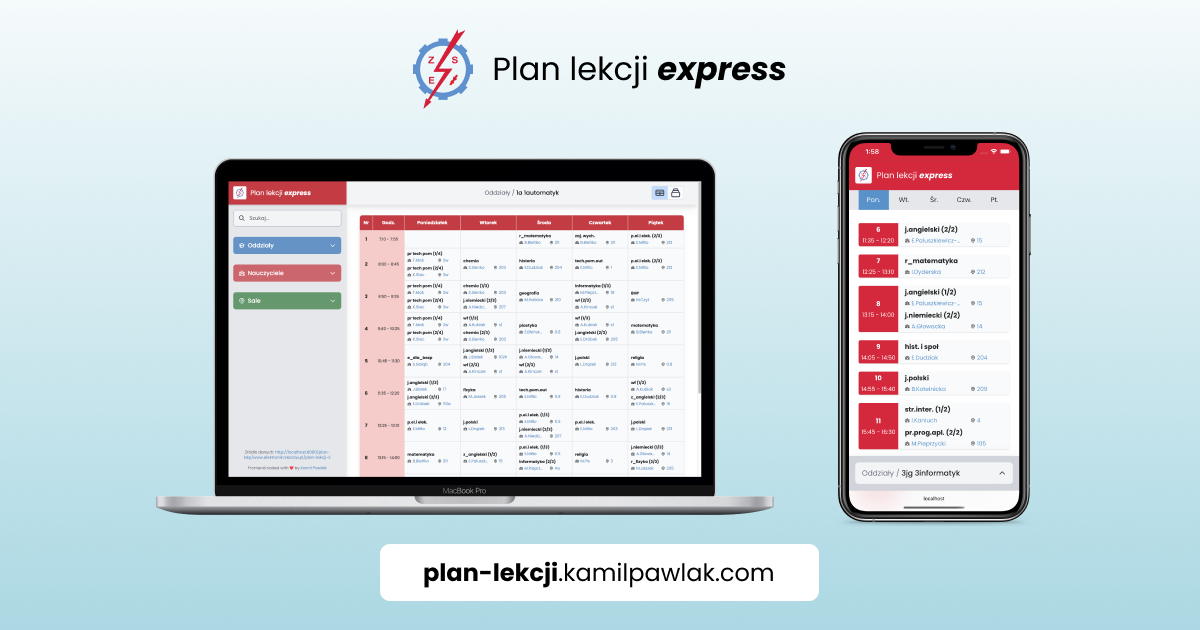
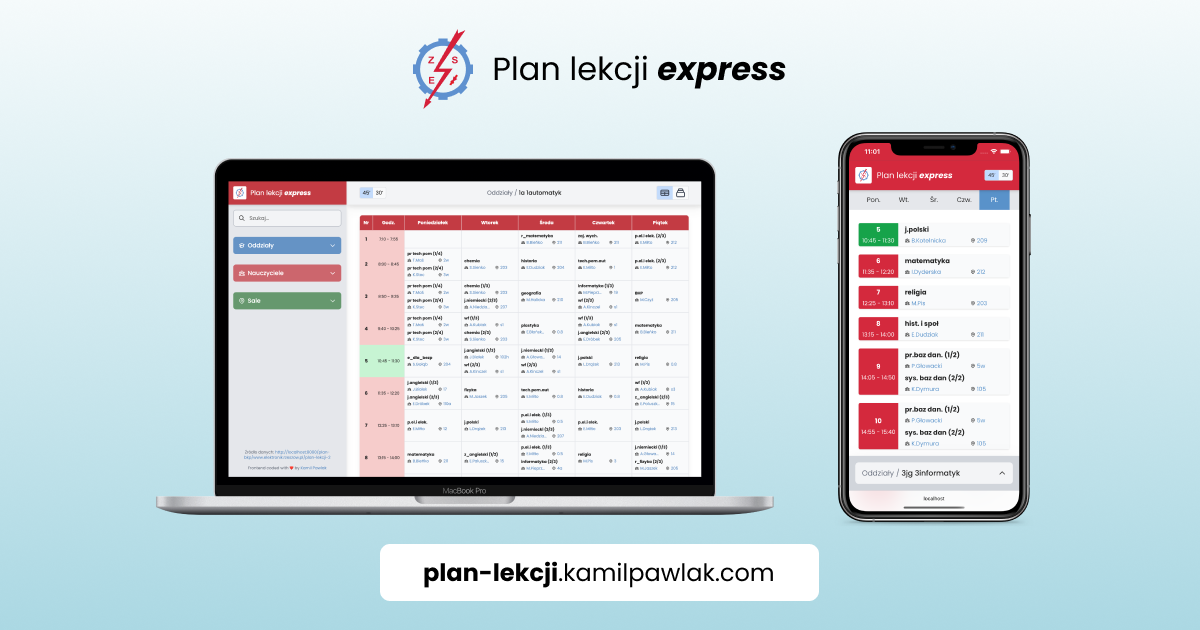
feat: short hours mode, update og image

diff --git a/components/TopBar.tsx b/components/TopBar.tsx
@@ -5,6 +5,7 @@ import * as React from "react";
 import getRouteContext from "../helpers/getRouteContext";
 import { SettingsContext } from "../pages/_app";
 import { DesktopComponent } from "../types/SettingsContext";
+import ShortHoursSwitcher from "./ShortHoursSwitcher";
 
 type TopBarProps = {
   timeTableList: List;
@@ -12,19 +13,22 @@ type TopBarProps = {
 
 const TopBar = ({ timeTableList }: TopBarProps) => {
   const router = useRouter();
-  const { desktopComponent, setDesktopComponent } = React.useContext(SettingsContext);
+  const { desktopComponent, setDesktopComponent } =
+    React.useContext(SettingsContext);
 
   const routeContext = React.useMemo(() => {
     return getRouteContext(router, timeTableList);
   }, [router, timeTableList]);
 
-  const handleButtonClick = (value: DesktopComponent) => {
+  const handleDesktopComponentButtonClick = (value: DesktopComponent) => {
     if (setDesktopComponent) setDesktopComponent(value);
   };
 
   return (
     <div className="bg-gray-100 flex h-[4.5rem] px-10 filter drop-shadow-xl">
-      <div className="w-full" />
+      <div className="w-full flex items-center">
+        <ShortHoursSwitcher />
+      </div>
       <div className=" w-full flex justify-center items-center">
         <h2 className="text-lg truncate">
           {routeContext.name && routeContext.typeName && (
@@ -38,16 +42,20 @@ const TopBar = ({ timeTableList }: TopBarProps) => {
       <div className="w-full flex items-center justify-end">
         <div className="bg-gray-50 flex items-center rounded border border-gray-300">
           <button
-            onClick={() => handleButtonClick("table")}
+            onClick={() => handleDesktopComponentButtonClick("table")}
             aria-label="Tabela"
-            className={`px-2 py-1 rounded-l ${desktopComponent === "table" ? "bg-blue-200" : ""}`}
+            className={`px-2 py-1 rounded-l ${
+              desktopComponent === "table" ? "bg-blue-200" : ""
+            }`}
           >
             <TableIcon className="h-8 text-gray-700" />
           </button>
           <button
-            onClick={() => handleButtonClick("list")}
+            onClick={() => handleDesktopComponentButtonClick("list")}
             aria-label="Lista"
-            className={`px-2 py-1 rounded-r ${desktopComponent === "list" ? "bg-blue-200" : ""}`}
+            className={`px-2 py-1 rounded-r ${
+              desktopComponent === "list" ? "bg-blue-200" : ""
+            }`}
           >
             <CollectionIcon className="h-8 text-gray-700" />
           </button>

diff --git a/pages/_app.tsx b/pages/_app.tsx
@@ -11,10 +11,85 @@ import {
 } from "../types/SettingsContext";
 import { useRouter } from "next/router";
 
+const shortHours = [
+  {
+    number: 1,
+    timeFrom: "7:10",
+    timeTo: "7:40",
+  },
+  {
+    number: 2,
+    timeFrom: "7:45",
+    timeTo: "8:15",
+  },
+  {
+    number: 3,
+    timeFrom: "8:20",
+    timeTo: "8:50",
+  },
+  {
+    number: 4,
+    timeFrom: "8:55",
+    timeTo: "9:25",
+  },
+  {
+    number: 5,
+    timeFrom: "9:45",
+    timeTo: "10:15",
+  },
+  {
+    number: 6,
+    timeFrom: "10:20",
+    timeTo: "10:50",
+  },
+  {
+    number: 7,
+    timeFrom: "10:55",
+    timeTo: "11:25",
+  },
+  {
+    number: 8,
+    timeFrom: "11:30",
+    timeTo: "12:00",
+  },
+  {
+    number: 9,
+    timeFrom: "12:05",
+    timeTo: "12:35",
+  },
+  {
+    number: 10,
+    timeFrom: "12:40",
+    timeTo: "13:10",
+  },
+  {
+    number: 11,
+    timeFrom: "13:15",
+    timeTo: "13:45",
+  },
+  {
+    number: 12,
+    timeFrom: "14:00",
+    timeTo: "14:30",
+  },
+  {
+    number: 13,
+    timeFrom: "14:35",
+    timeTo: "15:05",
+  },
+  {
+    number: 14,
+    timeFrom: "15:10",
+    timeTo: "15:40",
+  },
+];
+
 const defaultContextValue: SettingsContextType = {
   desktopComponent: "table",
   showSpinner: false,
-  bottomBarExpanded: false
+  bottomBarExpanded: false,
+  shortHours,
+  showShortHours: false,
 };
 
 export const SettingsContext =
@@ -24,9 +99,14 @@ function MyApp({ Component, pageProps }: AppProps) {
   const [desktopComponent, setDesktopComponent] = useState<DesktopComponent>(
     defaultContextValue.desktopComponent
   );
-  const [showSpinner, setShowSpinner] = useState(defaultContextValue.showSpinner);
-  const [bottomBarExpanded, setBottomBarExpanded] = useState(defaultContextValue.bottomBarExpanded);
-
+  const [showSpinner, setShowSpinner] = useState(
+    defaultContextValue.showSpinner
+  );
+  const [bottomBarExpanded, setBottomBarExpanded] = useState(
+    defaultContextValue.bottomBarExpanded
+  );
+  const [showShortHours, setShowShortHours]
+ = useState(defaultContextValue.showShortHours)
   const router = useRouter();
 
   useEffect(() => {
@@ -55,7 +135,10 @@ function MyApp({ Component, pageProps }: AppProps) {
         setDesktopComponent,
         showSpinner,
         bottomBarExpanded,
-        setBottomBarExpanded
+        setBottomBarExpanded,
+        shortHours,
+        showShortHours,
+        setShowShortHours
       }}
     >
       <Component {...pageProps} />

diff --git a/components/TimeTableAsTable.tsx b/components/TimeTableAsTable.tsx
@@ -9,8 +9,10 @@ import Link from "next/link";
 import * as React from "react";
 import InlineSVG from "react-inlinesvg";
 import getClassDataByCode from "../helpers/getClassDataByCode";
+import getHourData from "../helpers/getHourData";
 import getRoomDataByNumber from "../helpers/getRoomDataByNumber";
 import getTeacherDataByCode from "../helpers/getTeacherDataByCode";
+import { SettingsContext } from "../pages/_app";
 import { TimeTableData } from "../types/TimeTable";
 
 interface Props {
@@ -21,25 +23,27 @@ interface Props {
 const TimeTableAsTable = ({ timeTable, timeTableList }: Props) => {
   const shortDayNames = ["Pon.", "Wt.", "Śr.", "Czw.", "Pt."];
 
+  const { showShortHours, shortHours } = React.useContext(SettingsContext);
+
   const router = useRouter();
 
   const getClassData = React.useCallback(
     (classCode: string | undefined) => {
-      return getClassDataByCode(timeTableList, classCode)
+      return getClassDataByCode(timeTableList, classCode);
     },
     [timeTableList]
   );
 
   const getTeacherData = React.useCallback(
     (teacherCode: string | undefined) => {
-      return getTeacherDataByCode(timeTableList, teacherCode)
+      return getTeacherDataByCode(timeTableList, teacherCode);
     },
     [timeTableList]
   );
 
   const getRoomData = React.useCallback(
     (roomNumber: string | undefined) => {
-      return getRoomDataByNumber(timeTableList, roomNumber)
+      return getRoomDataByNumber(timeTableList, roomNumber);
     },
     [timeTableList]
   );
@@ -80,6 +84,12 @@ const TimeTableAsTable = ({ timeTable, timeTableList }: Props) => {
     };
   }, [timeTable.days]);
 
+  const hourData = React.useMemo(() => {
+    if (showShortHours)
+      return getHourData(timeTable.hours, shortHours)
+    else return timeTable.hours;
+  }, [shortHours, showShortHours, timeTable.hours]);
+
   return (
     <div className="px-10 pb-16 mt-8">
       <table className="w-full table-fixed border-separate border-0 shadow-lg rounded-lg border-spacing-0 ">
@@ -102,7 +112,7 @@ const TimeTableAsTable = ({ timeTable, timeTableList }: Props) => {
           </tr>
         </thead>
         <tbody>
-          {Object.entries(timeTable.hours).map((key, index) => {
+          {Object.entries(hourData).map((key, index) => {
             return (
               <tr key={`table-hour-${key}`} className="text-xs">
                 <td

diff --git a/components/TimeTableAsList.tsx b/components/TimeTableAsList.tsx
@@ -9,8 +9,10 @@ import Link from "next/link";
 import * as React from "react";
 import InlineSVG from "react-inlinesvg";
 import getClassDataByCode from "../helpers/getClassDataByCode";
+import getHourData from "../helpers/getHourData";
 import getRoomDataByNumber from "../helpers/getRoomDataByNumber";
 import getTeacherDataByCode from "../helpers/getTeacherDataByCode";
+import { SettingsContext } from "../pages/_app";
 import { TimeTableData } from "../types/TimeTable";
 
 interface Props {
@@ -24,6 +26,8 @@ const TimeTableAsList = ({ timeTable, timeTableList }: Props) => {
   >();
 
   const shortDayNames = ["Pon.", "Wt.", "Śr.", "Czw.", "Pt."];
+
+  const { showShortHours, shortHours } = React.useContext(SettingsContext);
 
   const router = useRouter();
 
@@ -92,6 +96,12 @@ const TimeTableAsList = ({ timeTable, timeTableList }: Props) => {
     };
   }, [timeTable.days]);
 
+  const hourData = React.useMemo(() => {
+    if (showShortHours)
+      return getHourData(timeTable.hours, shortHours)
+    else return timeTable.hours;
+  }, [shortHours, showShortHours, timeTable.hours]);
+
   return (
     <div className="pb-24 lg:pb-4">
       <div className="bg-gray-200 flex justify-between px-6 mb-8 sticky top-0">
@@ -109,7 +119,7 @@ const TimeTableAsList = ({ timeTable, timeTableList }: Props) => {
         ))}
       </div>
       <div className="px-6">
-        {Object.entries(timeTable.hours).map((key, index) => {
+        {Object.entries(hourData).map((key, index) => {
           if (
             selectedDayIndex !== undefined &&
             index >= dayTrimData.firstNotEmptyIndex[selectedDayIndex] &&

diff --git a/components/HeaderBar.tsx b/components/HeaderBar.tsx
@@ -1,13 +1,21 @@
 import * as React from "react";
 import InlineSVG from "react-inlinesvg";
+import ShortHoursSwitcher from "./ShortHoursSwitcher";
 
 const HeaderBar = () => {
   return (
-    <div className="w-full bg-elektronik-red p-4 flex items-center flex-shrink-0 relative z-10 filter drop-shadow-md">
-      <div className="bg-white flex items-center justify-center p-1 mr-3 rounded">
-        <InlineSVG src="/logo-zse-wektor.svg" className="w-8 h-8" />
+    <div className="w-full bg-elektronik-red p-4 relative flex items-center justify-between z-10 filter drop-shadow-md">
+      <div className="flex items-center flex-shrink-0">
+        <div className="bg-white flex items-center justify-center p-1 mr-3 rounded">
+          <InlineSVG src="/logo-zse-wektor.svg" className="w-8 h-8" />
+        </div>
+        <h1 className="text-white text-xl text-center m-0">
+          Plan lekcji <span className="italic font-bold">express</span>
+        </h1>
       </div>
-      <h1 className="text-white text-xl text-center m-0">Plan lekcji <span className="italic font-bold">express</span></h1>
+      <div className="lg:hidden">
+        <ShortHoursSwitcher small />
+      </div>
     </div>
   );
 };

diff --git a/components/ShortHoursSwitcher.tsx b/components/ShortHoursSwitcher.tsx
@@ -1,0 +1,42 @@
+import * as React from "react";
+import { SettingsContext } from "../pages/_app";
+
+interface Props {
+  small?: boolean;
+}
+
+const ShortHoursSwitcher = ({ small }: Props) => {
+  const {
+    desktopComponent,
+    setDesktopComponent,
+    showShortHours,
+    setShowShortHours,
+  } = React.useContext(SettingsContext);
+
+  const handleShortHoursButtonClick = (value: boolean) => {
+    if (setShowShortHours) setShowShortHours(value);
+  };
+
+  return (
+    <div className={`bg-gray-50 flex items-center rounded border border-gray-300 ${small ? "text-xs" : ""}`}>
+      <button
+        onClick={() => handleShortHoursButtonClick(false)}
+        aria-label="Normalne lekcje - 45 minut"
+        className={`px-2 py-1 rounded-l ${
+          !showShortHours ? "bg-blue-200" : ""
+        }`}
+      >
+        45’
+      </button>
+      <button
+        onClick={() => handleShortHoursButtonClick(true)}
+        aria-label="Skrócone lekcje - 30 minut"
+        className={`px-2 py-1 rounded-r ${showShortHours ? "bg-blue-200" : ""}`}
+      >
+        30’
+      </button>
+    </div>
+  );
+};
+
+export default ShortHoursSwitcher;

diff --git a/helpers/getHourData.ts b/helpers/getHourData.ts
@@ -1,0 +1,16 @@
+import { TableHour } from "@wulkanowy/timetable-parser";
+import { ShortHour } from "../types/ShortHour";
+
+const getHourData = (timeTableHours: Record<number, TableHour>, shortHours: ShortHour[]) => {
+  return Object.fromEntries(
+    Object.entries(timeTableHours).map((key) => {
+      const shortHour = shortHours.find(
+        (hour) => hour.number === Number(key[0])
+      );
+      if (shortHour) return [key[0], shortHour];
+      else return [key[0], key[1]];
+    })
+  );
+}
+
+export default getHourData

diff --git a/types/SettingsContext.ts b/types/SettingsContext.ts
@@ -1,4 +1,5 @@
 import { Dispatch, SetStateAction } from "react";
+import { ShortHour } from "./ShortHour";
 
 export type DesktopComponent = "table" | "list"
 
@@ -8,4 +9,7 @@ export interface SettingsContextType {
   showSpinner: boolean;
   bottomBarExpanded: boolean;
   setBottomBarExpanded?: Dispatch<SetStateAction<boolean>>;
+  shortHours: ShortHour[];
+  showShortHours: boolean;
+  setShowShortHours?: Dispatch<SetStateAction<boolean>>;
 }

diff --git a/types/ShortHour.ts b/types/ShortHour.ts
@@ -1,0 +1,5 @@
+export interface ShortHour {
+  number: number;
+  timeFrom: string;
+  timeTo: string;
+}
